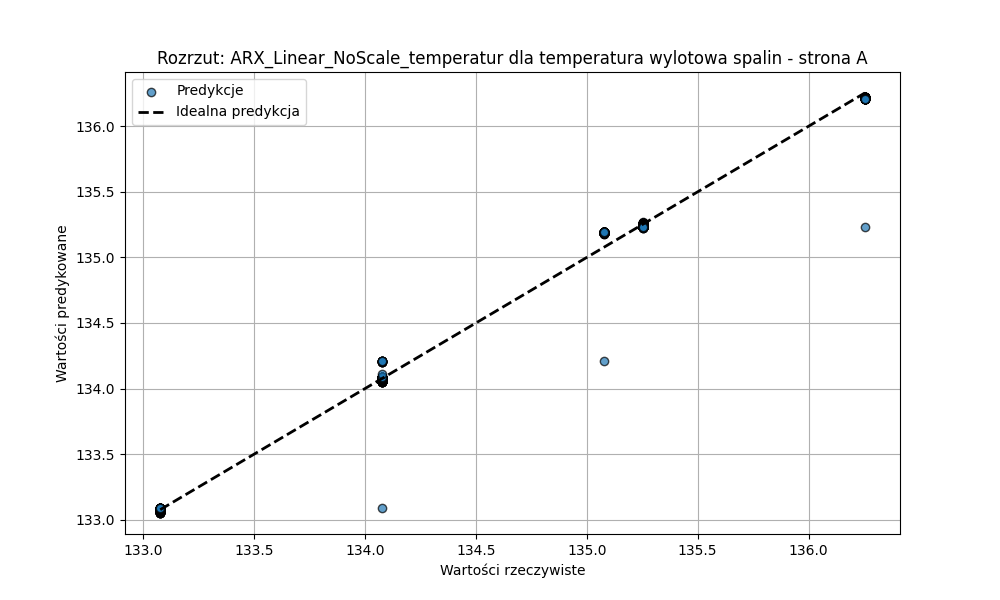
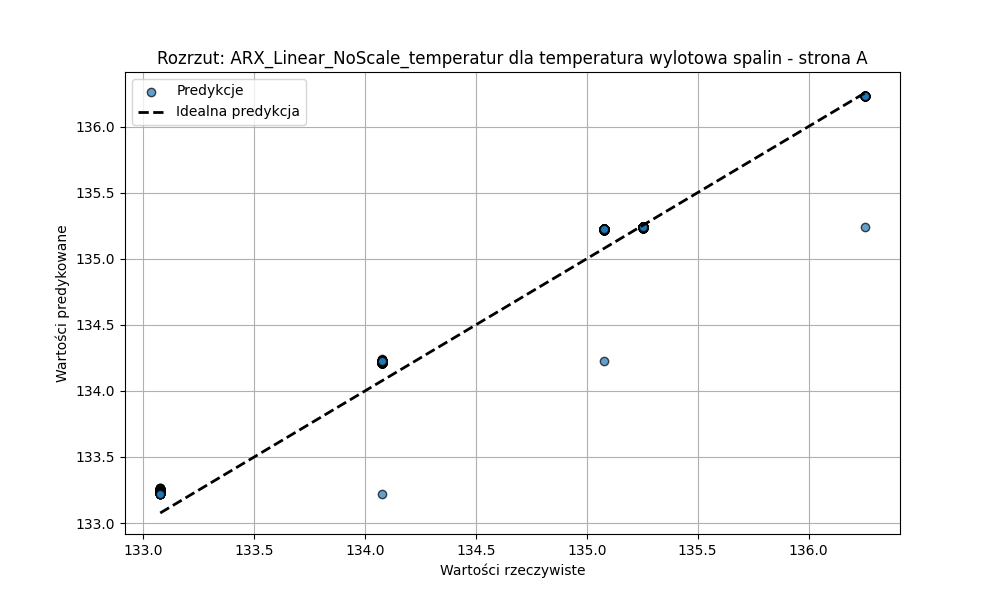
inputs tinkering

diff --git a/src/main.py b/src/main.py
@@ -197,9 +197,10 @@ def main():
             "temperatura mieszanki za młynem E",
             "kąt wychylenia palnika róg #1", "kąt wychylenia palnika róg #2", "kąt wychylenia palnika róg #3", "kąt wychylenia palnika róg #4",
             "klapy wentlatora podmuchu - strona A", "klapy wentlatora podmuchu - strona B",
-            "przepływ powietrza pierwotnego", "ciśnienie wody wtryskowej do pary świeżej",
-            "temperatura za wtryskiem pary wtórnej - strona L ", 
-            "temperatura za wtryskiem pary wtórnej - strona P"
+            "ciśnienie wody wtryskowej do pary świeżej",
+            "temperatura wlotowa powietrza - strona A",
+            # "temperatura za wtryskiem pary wtórnej - strona L ", 
+            # "temperatura za wtryskiem pary wtórnej - strona P"
         ]
         target_A = "temperatura wylotowa spalin - strona A"
 
@@ -208,9 +209,10 @@ def main():
             "temperatura mieszanki za młynem E",
             "kąt wychylenia palnika róg #1", "kąt wychylenia palnika róg #2", "kąt wychylenia palnika róg #3", "kąt wychylenia palnika róg #4",
             "klapy wentlatora podmuchu - strona A", "klapy wentlatora podmuchu - strona B",
-            "przepływ powietrza pierwotnego", "ciśnienie wody wtryskowej do pary świeżej",
-            "temperatura za wtryskiem pary wtórnej - strona L ", 
-            "temperatura za wtryskiem pary wtórnej - strona P"
+            "ciśnienie wody wtryskowej do pary świeżej",
+            "temperatura wlotowa powietrza - strona A",
+            # "temperatura za wtryskiem pary wtórnej - strona L ", 
+            # "temperatura za wtryskiem pary wtórnej - strona P"
         ]
         target_B = "temperatura wylotowa spalin - strona B"
         
